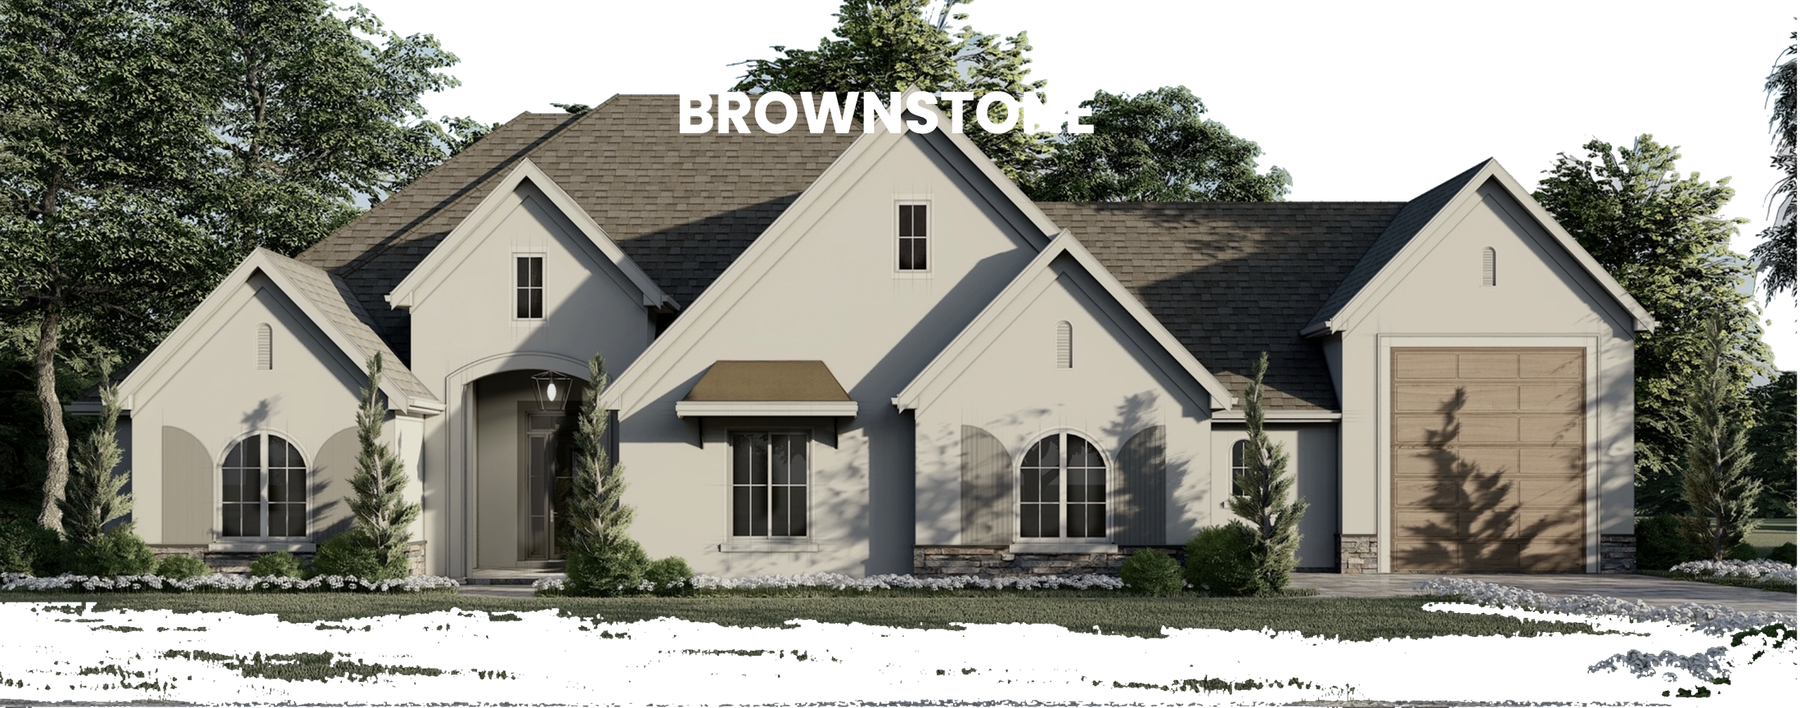
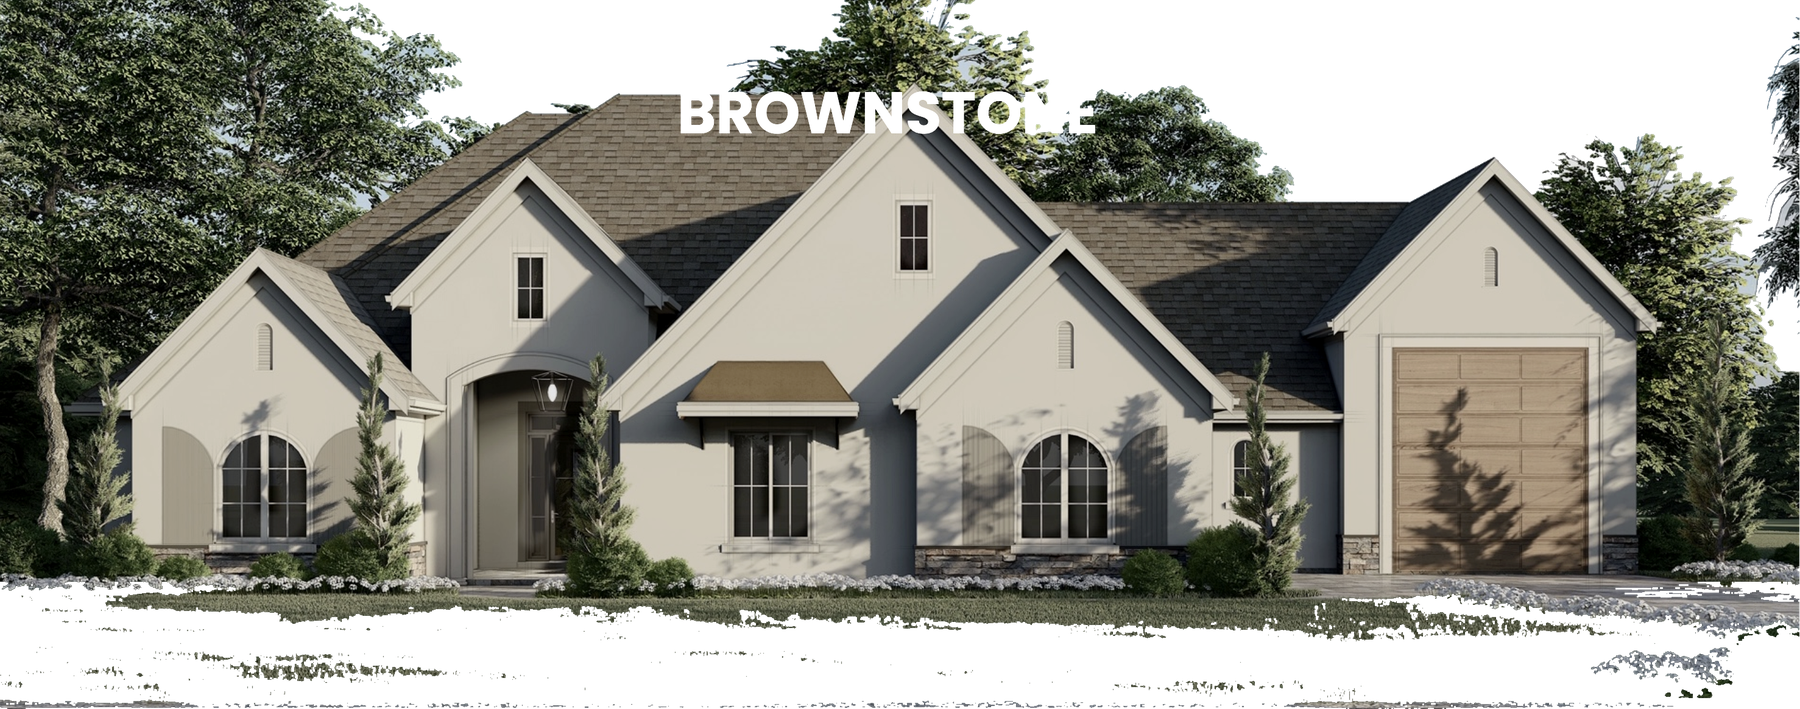
Remove driveway gap: hide dark pad, extend pave under garage
Driveway/apron now overshoot into the facade; footprint pad no longer
shows as a black gap. Cutouts trim foreground lawn so pavement meets
the foundation line.

diff --git a/src/studio/StudioCanvas.tsx b/src/studio/StudioCanvas.tsx
@@ -167,14 +167,10 @@ export default function StudioCanvas({
       cutout.scale.set(w, h, 1)
       cutout.position.y = groundY + h / 2
 
+      // Footprint pad stays hidden while a house is placed — the dark pad was
+      // reading as a “gap” between driveway and garage.
       const pad = anchor.getObjectByName('footprintPad') as THREE.Mesh | undefined
-      if (pad) {
-        pad.visible = true
-        // Approximate footprint depth from plan catalog when available
-        const plan = planIdRef.current ? getPlan(planIdRef.current) : null
-        const depthFt = plan?.footprintFt.depth ?? widthRef.current * 0.7
-        pad.scale.set(w, depthFt * FT_TO_M, 1)
-      }
+      if (pad) pad.visible = false
 
       // Garage door marker on the facade.
       // Cutout is rotated Y=π (faces street), which mirrors +x → image-right
@@ -599,40 +595,44 @@ export default function StudioCanvas({
       const ux = dx / len
       const uz = dz / len
 
-      // Push tip slightly past the facade so pavement reads under the garage door
-      const tipX = worldDoor.x + ux * 1.2
-      const tipZ = worldDoor.z + uz * 1.2
+      // Push tip well under the facade / garage door so pavement meets the house
+      const tipX = worldDoor.x + ux * 2.5
+      const tipZ = worldDoor.z + uz * 2.5
       dx = tipX - fx
       dz = tipZ - fz
       len = Math.hypot(dx, dz)
 
-      const widthM = 14 * FT_TO_M
+      const widthM = 16 * FT_TO_M
       const isConcrete = materialRef.current === 'concrete'
-      const pave = isConcrete ? 0xb0aea8 : 0x4f4f51
+      const pave = isConcrete ? 0xc4c2ba : 0x555558
 
       // Continuous ribbon: curb → under garage door (no gap)
       driveway.visible = true
-      driveway.position.set((fx + tipX) / 2, 0.055, (fz + tipZ) / 2)
+      driveway.position.set((fx + tipX) / 2, 0.09, (fz + tipZ) / 2)
       driveway.scale.set(widthM, 1, len)
       driveway.rotation.y = Math.atan2(dx, dz)
+      driveway.renderOrder = 2
       asphaltMap.repeat.set(widthM / 2, Math.max(1, len / 2))
       asphaltMap.needsUpdate = true
       drivewayMat.color.set(pave)
+      drivewayMat.depthWrite = true
 
-      // Wider apron overlapping the last stretch of ribbon at the garage
+      // Wider apron overlapping the last stretch — same pave color, no seam
       if (apronRef.current) {
         const apronMesh = apronRef.current
         const am = apronMesh.material as THREE.MeshStandardMaterial
         am.color.set(pave)
-        const apronLen = Math.min(Math.max(8, len * 0.2), 14)
+        am.depthWrite = true
+        const apronLen = Math.min(Math.max(10, len * 0.24), 16)
         worldApronOuter.set(tipX - ux * apronLen, 0, tipZ - uz * apronLen)
         apronMesh.visible = true
+        apronMesh.renderOrder = 3
         apronMesh.position.set(
           (worldApronOuter.x + tipX) / 2,
-          0.06,
+          0.1,
           (worldApronOuter.z + tipZ) / 2
         )
-        apronMesh.scale.set(widthM * 1.6, 1, apronLen)
+        apronMesh.scale.set(widthM * 1.75, 1, apronLen)
         apronMesh.rotation.set(0, Math.atan2(dx, dz), 0)
       }
 

diff --git a/src/data/plans.ts b/src/data/plans.ts
@@ -44,8 +44,8 @@ export const homePlans: HomePlan[] = [
     name: 'The Brownstone',
     subtitle: 'Front-facing garage + RV bay',
     builder: 'Blackstone Homes',
-    elevationImg: '/plans/brownstone-elevation.jpg?v=drive4',
-    cutoutImg: '/plans/cutouts/brownstone.png?v=drive4',
+    elevationImg: '/plans/brownstone-elevation.jpg?v=drive5',
+    cutoutImg: '/plans/cutouts/brownstone.png?v=drive5',
     floorplanImg: '/plans/thumbs/brownstone-floorplan.jpg',
     pdfUrl: '/plans/brownstone-15-2-rwr.pdf',
     livingArea: '~2,880 sq ft living',
@@ -71,8 +71,8 @@ export const homePlans: HomePlan[] = [
     name: 'The Whitestone',
     subtitle: 'Front-facing garage',
     builder: 'Blackstone Homes',
-    elevationImg: '/plans/whitestone-elevation.jpg?v=drive4',
-    cutoutImg: '/plans/cutouts/whitestone.png?v=drive4',
+    elevationImg: '/plans/whitestone-elevation.jpg?v=drive5',
+    cutoutImg: '/plans/cutouts/whitestone.png?v=drive5',
     floorplanImg: '/plans/thumbs/whitestone-front-floorplan.jpg',
     pdfUrl: '/plans/whitestone-7-2-rwr.pdf',
     livingArea: '~2,140 sq ft living',
@@ -98,8 +98,8 @@ export const homePlans: HomePlan[] = [
     builder: 'Blackstone Homes',
     // Side-entry plan uses the same Whitestone marketing render until a
     // dedicated side-entry exterior photo is supplied.
-    elevationImg: '/plans/whitestone-elevation.jpg?v=drive4',
-    cutoutImg: '/plans/cutouts/whitestone.png?v=drive4',
+    elevationImg: '/plans/whitestone-elevation.jpg?v=drive5',
+    cutoutImg: '/plans/cutouts/whitestone.png?v=drive5',
     floorplanImg: '/plans/thumbs/whitestone-side-floorplan.jpg',
     pdfUrl: '/plans/whitestone-29-3-pse.pdf',
     livingArea: '~2,140 sq ft living',
